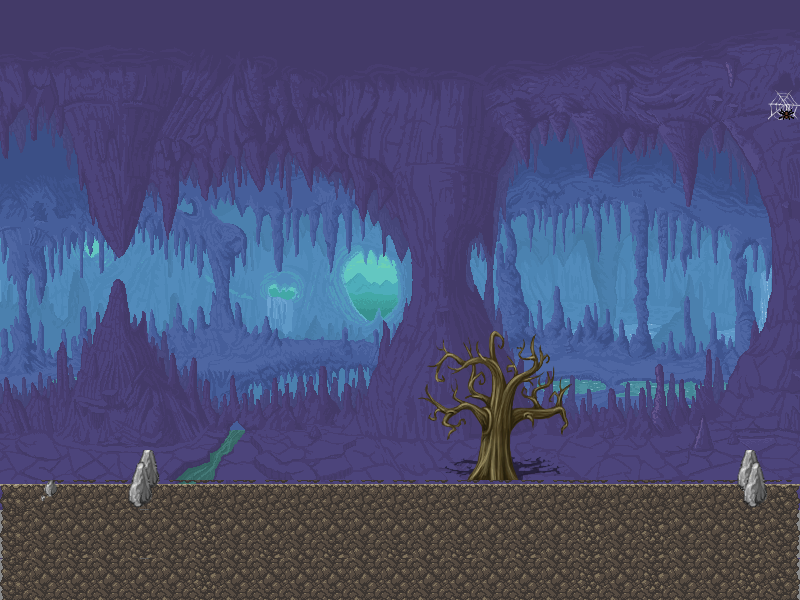
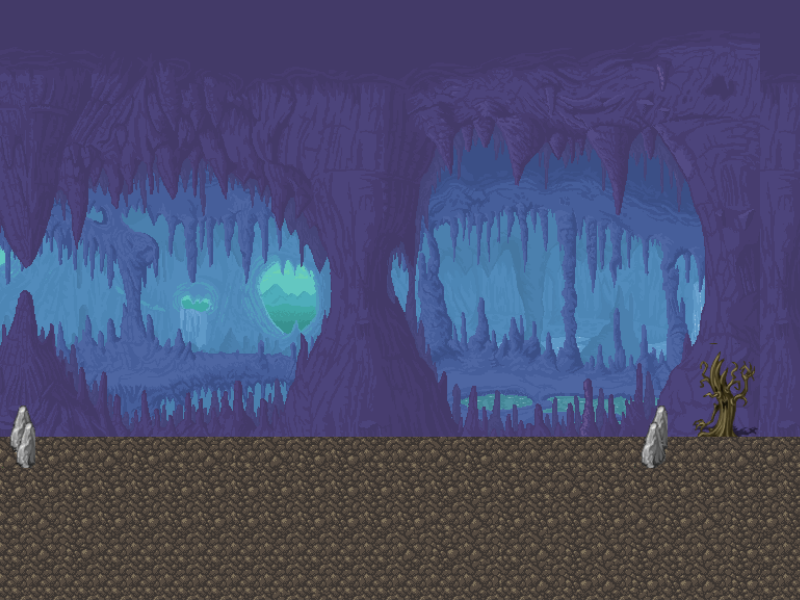
falta musica

diff --git a/.tmp/js/bundle.js b/.tmp/js/bundle.js
@@ -34,38 +34,50 @@ var FightScene = {
             	//Creamos las imagenes necesarias
             	this.text = this.game.add.text(175, 100, 'Bienvenido al sistema de combate \n de Mountain Meeting Tales', style);
             	//this._playerPet.visible = false;
-            	this._enemy = this.game.add.sprite(750, 325, 'enemy');
+            	this._enemy = this.game.add.sprite(700, 325, 'enemy');
+            	this._enemy.animations.add('idle', Phaser.Animation.generateFrameNames('estar',1,4,'',1),5,true);
+            	this._enemy.animations.play('idle');
             	this.enemyPet();
             	break;
             case 1:
             	this.background = this.game.add.sprite(0, 0, 'fight2');
                 this.text = this.dialogos();
-                this._enemy = this.game.add.sprite(750, 325, 'enemy');
+                this._enemy = this.game.add.sprite(700, 325, 'enemy');
+                this._enemy.animations.add('idle', Phaser.Animation.generateFrameNames('estar',1,4,'',1),5,true);
+            	this._enemy.animations.play('idle');
                 this.enemyPet();
                 break;
             case 2:
             	this.background = this.game.add.sprite(0, 0, 'fight2');
                 this.text = this.dialogos();
-                this._enemy = this.game.add.sprite(750, 325, 'enemy');
+                this._enemy = this.game.add.sprite(700, 325, 'enemy');
+                this._enemy.animations.add('idle', Phaser.Animation.generateFrameNames('estar',1,4,'',1),5,true);
+            	this._enemy.animations.play('idle');
                 this.enemyPet();
                 break;
             case 3:
             	this.background = this.game.add.sprite(0, 0, 'fight2');
                 this.text = this.dialogos();
-                this._enemy = this.game.add.sprite(750, 325, 'enemy');
+                this._enemy = this.game.add.sprite(700, 325, 'enemy');
+                this._enemy.animations.add('idle', Phaser.Animation.generateFrameNames('estar',1,4,'',1),5,true);
+            	this._enemy.animations.play('idle');
                 this.enemyPet();
                 break;
             case 4:
             	this.background = this.game.add.sprite(0, 0, 'fight2');
                 this.text = this.dialogos();
-                this._enemy = this.game.add.sprite(750, 325, 'enemy');
+                this._enemy = this.game.add.sprite(700, 325, 'enemy');
+                this._enemy.animations.add('idle', Phaser.Animation.generateFrameNames('estar',1,4,'',1),5,true);
+            	this._enemy.animations.play('idle');
                 this.enemyPet();
                 break;
             case 5: //Boss
             	this.background = this.game.add.sprite(0, 0, 'fight1');
                 this.text = this.bossText();
-                this._enemy = this.game.add.sprite(750, 325, 'buddy');
+                this._enemy = this.game.add.sprite(700, 325, 'buddy');
                 this._enemy.scale.setTo(0.3, 0.3);
+                this._enemy.animations.add('idle', Phaser.Animation.generateFrameNames('fattony',1,4,'',1),5,true);
+            	this._enemy.animations.play('idle');
                 this.enemyPet();
                 break;
         }
@@ -79,11 +91,11 @@ var FightScene = {
 		var spaceKey = this.game.input.keyboard.addKey(Phaser.Keyboard.SPACEBAR);
 		spaceKey.onDown.add(this.onSpacePress, this);
 
-        this._player = this.game.add.sprite(10, 325, 'player');
+        this._player = this.game.add.sprite(10, 340, 'player');
         this._player.scale.setTo(0.4, 0.4);
         this._player.animations.add('stop', Phaser.Animation.generateFrameNames('saltar',5,5,'',1),0,false);
         this._player.visible = false;
-        this._playerPet = this.game.add.sprite(200, 380, 'wolfiePet');
+        this._playerPet = this.game.add.sprite(200, 365, 'wolfiePet');
         this._playerPet.animations.add('idle', Phaser.Animation.generateFrameNames('estar',1,4,'',1),4,true);
         this._playerPet.visible = false;
         this._enemy.visible = false;
@@ -431,6 +443,7 @@ var PlayScene = require('./play_scene');
 var GameOver = require('./gameover_scene');
 var MenuScene = require('./menu_scene');
 var FightScene = require('./fight_scene');
+var VictoryScene = require('./victory_scene');
 
 var BootScene = {
   preload: function () {
@@ -455,8 +468,9 @@ var PreloaderScene = {
     
     this.load.onLoadStart.add(this.loadStart, this);
 
-    //Imagen para el game over
+    //Imagen para el game over y victory
     this.game.load.image('gameOver', 'images/MMT/gameover.png');
+    this.game.load.image('victory', 'images/MMT/victoria.png');
 
     //Imagenes para el play_scene
     this.game.load.image('menu', 'images/menu.jpg');
@@ -520,11 +534,12 @@ window.init = function () {
   game.state.add('play', PlayScene);
   game.state.add('gameOver', GameOver);
   game.state.add('fight', FightScene);
+  game.state.add('victory', VictoryScene);
 
   game.state.start('boot');
 };
 
-},{"./fight_scene":1,"./gameover_scene":2,"./menu_scene":4,"./play_scene":5}],4:[function(require,module,exports){
+},{"./fight_scene":1,"./gameover_scene":2,"./menu_scene":4,"./play_scene":5,"./victory_scene":6}],4:[function(require,module,exports){
 var MenuScene = {
     create: function () {
         this.game.world.setBounds(0, 0, 800, 600);
@@ -557,7 +572,7 @@ module.exports = MenuScene;
 //mover el player.
 var PlayerState = {'JUMP':0, 'RUN':1, 'FALLING':2, 'STOP':3, 'FIGHT':4}
 var Direction = {'LEFT':0, 'RIGHT':1, 'NONE':3}
-var playerPos = {x: 10, y: 10};
+var playerPos = {x: 2600, y: 10};
 var enemyFighted = 0;
 
 //Scena de juego.
@@ -637,13 +652,19 @@ var PlayScene = {
       this._enemies.create(750, 300, 'enemy');*/
 
       // Animaciones de los enemigos
-      this._enemy1.animations.add('idle', Phaser.Animation.generateFrameNames('estar',1,4,'',2),10,true);
-      this._enemy2.animations.add('idle', Phaser.Animation.generateFrameNames('estar',1,4,'',2),10,true);
-      this._enemy3.animations.add('idle', Phaser.Animation.generateFrameNames('estar',1,4,'',2),10,true);
-      this._enemy4.animations.add('idle', Phaser.Animation.generateFrameNames('estar',1,4,'',2),10,true);
-      this._enemy5.animations.add('idle', Phaser.Animation.generateFrameNames('estar',1,4,'',2),10,true);
-      this._boss.animations.add('idle', Phaser.Animation.generateFrameNames('estar',1,4,'',2),10,true);
-      //this._enemy1.animations.play('idle'); //iniciar todas las animaciones (no se si aqui funciona)
+      this._enemy1.animations.add('idle', Phaser.Animation.generateFrameNames('estar',1,4,'',1),5,true);
+      this._enemy2.animations.add('idle', Phaser.Animation.generateFrameNames('estar',1,4,'',1),5,true);
+      this._enemy3.animations.add('idle', Phaser.Animation.generateFrameNames('estar',1,4,'',1),5,true);
+      this._enemy4.animations.add('idle', Phaser.Animation.generateFrameNames('estar',1,4,'',1),5,true);
+      this._enemy5.animations.add('idle', Phaser.Animation.generateFrameNames('estar',1,4,'',1),5,true);
+      this._boss.animations.add('idle', Phaser.Animation.generateFrameNames('fattony',1,4,'',1),5,true);
+
+      this._enemy1.animations.play('idle');
+      this._enemy2.animations.play('idle');
+      this._enemy3.animations.play('idle');
+      this._enemy4.animations.play('idle');
+      this._enemy5.animations.play('idle');
+      this._boss.animations.play('idle');
       
       //nombre de la animación, frames, framerate, isloop
       this._player.animations.add('run', Phaser.Animation.generateFrameNames('corre',1,5,'',1),10,true);
@@ -733,6 +754,9 @@ var PlayScene = {
         var colboss = this.game.physics.arcade.collide(this._boss, this.groundLayer, this.collision(colboss));
         var movement = this.GetMovement();
 
+        
+        //this._enemy2.animations.play('idle');
+
         //transitions
         switch(this._playerState) {
             case PlayerState.STOP:
@@ -805,6 +829,7 @@ var PlayScene = {
         this.movement(moveDirection, 5, this.backgroundLayer.layer.widthInPixels*this.backgroundLayer.scale.x - 10);
         this.checkPlayerFell();
         this.distanceEnemy(this._fightNumber);
+        this.OnFinalVictory();
     },
 
     //Funcion que utilizamos para guardar estas variables al cambiar de un state a otro.
@@ -938,9 +963,38 @@ var PlayScene = {
         this.game.world.setBounds(0, 0, 800, 600);
         this.tilemap.destroy();
         this.tiles.destroy();
+    },
+
+    OnFinalVictory: function () {
+      if(this._player.x > 2800) {
+        this._fightNumber = 0;
+        this._player.x = 10;
+        this._player.y = 10;
+        this.game.state.start('victory');
+      }
     }
 };
 
 module.exports = PlayScene;
 
+},{}],6:[function(require,module,exports){
+var VictoryScene = {
+    create: function () {
+        console.log("Victory");
+        this.game.world.setBounds(0, 0, 800, 600);
+
+        var logo = this.game.add.sprite(0, 0, 'victory');
+        var button = this.game.add.button(this.game.world.centerX, this.game.world.centerY, 'button', this.actionOnClick, this, 2, 1, 0);
+        button.anchor.set(0.5);
+        var text = this.game.add.text(0, 0, "Main Menu");
+        text.anchor.set(0.5);
+        button.addChild(text);
+    },
+
+    actionOnClick: function () {
+        this.game.state.start('menu');
+    }
+};
+
+module.exports = VictoryScene;
 },{}]},{},[3]);

diff --git a/src/js/fight_scene.js b/src/js/fight_scene.js
@@ -33,38 +33,50 @@ var FightScene = {
             	//Creamos las imagenes necesarias
             	this.text = this.game.add.text(175, 100, 'Bienvenido al sistema de combate \n de Mountain Meeting Tales', style);
             	//this._playerPet.visible = false;
-            	this._enemy = this.game.add.sprite(750, 325, 'enemy');
+            	this._enemy = this.game.add.sprite(700, 325, 'enemy');
+            	this._enemy.animations.add('idle', Phaser.Animation.generateFrameNames('estar',1,4,'',1),5,true);
+            	this._enemy.animations.play('idle');
             	this.enemyPet();
             	break;
             case 1:
             	this.background = this.game.add.sprite(0, 0, 'fight2');
                 this.text = this.dialogos();
-                this._enemy = this.game.add.sprite(750, 325, 'enemy');
+                this._enemy = this.game.add.sprite(700, 325, 'enemy');
+                this._enemy.animations.add('idle', Phaser.Animation.generateFrameNames('estar',1,4,'',1),5,true);
+            	this._enemy.animations.play('idle');
                 this.enemyPet();
                 break;
             case 2:
             	this.background = this.game.add.sprite(0, 0, 'fight2');
                 this.text = this.dialogos();
-                this._enemy = this.game.add.sprite(750, 325, 'enemy');
+                this._enemy = this.game.add.sprite(700, 325, 'enemy');
+                this._enemy.animations.add('idle', Phaser.Animation.generateFrameNames('estar',1,4,'',1),5,true);
+            	this._enemy.animations.play('idle');
                 this.enemyPet();
                 break;
             case 3:
             	this.background = this.game.add.sprite(0, 0, 'fight2');
                 this.text = this.dialogos();
-                this._enemy = this.game.add.sprite(750, 325, 'enemy');
+                this._enemy = this.game.add.sprite(700, 325, 'enemy');
+                this._enemy.animations.add('idle', Phaser.Animation.generateFrameNames('estar',1,4,'',1),5,true);
+            	this._enemy.animations.play('idle');
                 this.enemyPet();
                 break;
             case 4:
             	this.background = this.game.add.sprite(0, 0, 'fight2');
                 this.text = this.dialogos();
-                this._enemy = this.game.add.sprite(750, 325, 'enemy');
+                this._enemy = this.game.add.sprite(700, 325, 'enemy');
+                this._enemy.animations.add('idle', Phaser.Animation.generateFrameNames('estar',1,4,'',1),5,true);
+            	this._enemy.animations.play('idle');
                 this.enemyPet();
                 break;
             case 5: //Boss
             	this.background = this.game.add.sprite(0, 0, 'fight1');
                 this.text = this.bossText();
-                this._enemy = this.game.add.sprite(750, 325, 'buddy');
+                this._enemy = this.game.add.sprite(700, 325, 'buddy');
                 this._enemy.scale.setTo(0.3, 0.3);
+                this._enemy.animations.add('idle', Phaser.Animation.generateFrameNames('fattony',1,4,'',1),5,true);
+            	this._enemy.animations.play('idle');
                 this.enemyPet();
                 break;
         }
@@ -78,11 +90,11 @@ var FightScene = {
 		var spaceKey = this.game.input.keyboard.addKey(Phaser.Keyboard.SPACEBAR);
 		spaceKey.onDown.add(this.onSpacePress, this);
 
-        this._player = this.game.add.sprite(10, 325, 'player');
+        this._player = this.game.add.sprite(10, 340, 'player');
         this._player.scale.setTo(0.4, 0.4);
         this._player.animations.add('stop', Phaser.Animation.generateFrameNames('saltar',5,5,'',1),0,false);
         this._player.visible = false;
-        this._playerPet = this.game.add.sprite(200, 380, 'wolfiePet');
+        this._playerPet = this.game.add.sprite(200, 365, 'wolfiePet');
         this._playerPet.animations.add('idle', Phaser.Animation.generateFrameNames('estar',1,4,'',1),4,true);
         this._playerPet.visible = false;
         this._enemy.visible = false;

diff --git a/src/js/play_scene.js b/src/js/play_scene.js
@@ -4,7 +4,7 @@
 //mover el player.
 var PlayerState = {'JUMP':0, 'RUN':1, 'FALLING':2, 'STOP':3, 'FIGHT':4}
 var Direction = {'LEFT':0, 'RIGHT':1, 'NONE':3}
-var playerPos = {x: 10, y: 10};
+var playerPos = {x: 2600, y: 10};
 var enemyFighted = 0;
 
 //Scena de juego.
@@ -84,13 +84,19 @@ var PlayScene = {
       this._enemies.create(750, 300, 'enemy');*/
 
       // Animaciones de los enemigos
-      this._enemy1.animations.add('idle', Phaser.Animation.generateFrameNames('estar',1,4,'',2),10,true);
-      this._enemy2.animations.add('idle', Phaser.Animation.generateFrameNames('estar',1,4,'',2),10,true);
-      this._enemy3.animations.add('idle', Phaser.Animation.generateFrameNames('estar',1,4,'',2),10,true);
-      this._enemy4.animations.add('idle', Phaser.Animation.generateFrameNames('estar',1,4,'',2),10,true);
-      this._enemy5.animations.add('idle', Phaser.Animation.generateFrameNames('estar',1,4,'',2),10,true);
-      this._boss.animations.add('idle', Phaser.Animation.generateFrameNames('estar',1,4,'',2),10,true);
-      //this._enemy1.animations.play('idle'); //iniciar todas las animaciones (no se si aqui funciona)
+      this._enemy1.animations.add('idle', Phaser.Animation.generateFrameNames('estar',1,4,'',1),5,true);
+      this._enemy2.animations.add('idle', Phaser.Animation.generateFrameNames('estar',1,4,'',1),5,true);
+      this._enemy3.animations.add('idle', Phaser.Animation.generateFrameNames('estar',1,4,'',1),5,true);
+      this._enemy4.animations.add('idle', Phaser.Animation.generateFrameNames('estar',1,4,'',1),5,true);
+      this._enemy5.animations.add('idle', Phaser.Animation.generateFrameNames('estar',1,4,'',1),5,true);
+      this._boss.animations.add('idle', Phaser.Animation.generateFrameNames('fattony',1,4,'',1),5,true);
+
+      this._enemy1.animations.play('idle');
+      this._enemy2.animations.play('idle');
+      this._enemy3.animations.play('idle');
+      this._enemy4.animations.play('idle');
+      this._enemy5.animations.play('idle');
+      this._boss.animations.play('idle');
       
       //nombre de la animación, frames, framerate, isloop
       this._player.animations.add('run', Phaser.Animation.generateFrameNames('corre',1,5,'',1),10,true);
@@ -180,6 +186,9 @@ var PlayScene = {
         var colboss = this.game.physics.arcade.collide(this._boss, this.groundLayer, this.collision(colboss));
         var movement = this.GetMovement();
 
+        
+        //this._enemy2.animations.play('idle');
+
         //transitions
         switch(this._playerState) {
             case PlayerState.STOP:
@@ -252,6 +261,7 @@ var PlayScene = {
         this.movement(moveDirection, 5, this.backgroundLayer.layer.widthInPixels*this.backgroundLayer.scale.x - 10);
         this.checkPlayerFell();
         this.distanceEnemy(this._fightNumber);
+        this.OnFinalVictory();
     },
 
     //Funcion que utilizamos para guardar estas variables al cambiar de un state a otro.
@@ -385,6 +395,15 @@ var PlayScene = {
         this.game.world.setBounds(0, 0, 800, 600);
         this.tilemap.destroy();
         this.tiles.destroy();
+    },
+
+    OnFinalVictory: function () {
+      if(this._player.x > 2800) {
+        this._fightNumber = 0;
+        this._player.x = 10;
+        this._player.y = 10;
+        this.game.state.start('victory');
+      }
     }
 };
 

diff --git a/src/js/main.js b/src/js/main.js
@@ -4,6 +4,7 @@ var PlayScene = require('./play_scene');
 var GameOver = require('./gameover_scene');
 var MenuScene = require('./menu_scene');
 var FightScene = require('./fight_scene');
+var VictoryScene = require('./victory_scene');
 
 var BootScene = {
   preload: function () {
@@ -28,8 +29,9 @@ var PreloaderScene = {
     
     this.load.onLoadStart.add(this.loadStart, this);
 
-    //Imagen para el game over
+    //Imagen para el game over y victory
     this.game.load.image('gameOver', 'images/MMT/gameover.png');
+    this.game.load.image('victory', 'images/MMT/victoria.png');
 
     //Imagenes para el play_scene
     this.game.load.image('menu', 'images/menu.jpg');
@@ -93,6 +95,7 @@ window.init = function () {
   game.state.add('play', PlayScene);
   game.state.add('gameOver', GameOver);
   game.state.add('fight', FightScene);
+  game.state.add('victory', VictoryScene);
 
   game.state.start('boot');
 };

diff --git a/src/js/victory_scene.js b/src/js/victory_scene.js
@@ -1,0 +1,19 @@
+var VictoryScene = {
+    create: function () {
+        console.log("Victory");
+        this.game.world.setBounds(0, 0, 800, 600);
+
+        var logo = this.game.add.sprite(0, 0, 'victory');
+        var button = this.game.add.button(this.game.world.centerX, this.game.world.centerY, 'button', this.actionOnClick, this, 2, 1, 0);
+        button.anchor.set(0.5);
+        var text = this.game.add.text(0, 0, "Main Menu");
+        text.anchor.set(0.5);
+        button.addChild(text);
+    },
+
+    actionOnClick: function () {
+        this.game.state.start('menu');
+    }
+};
+
+module.exports = VictoryScene;
